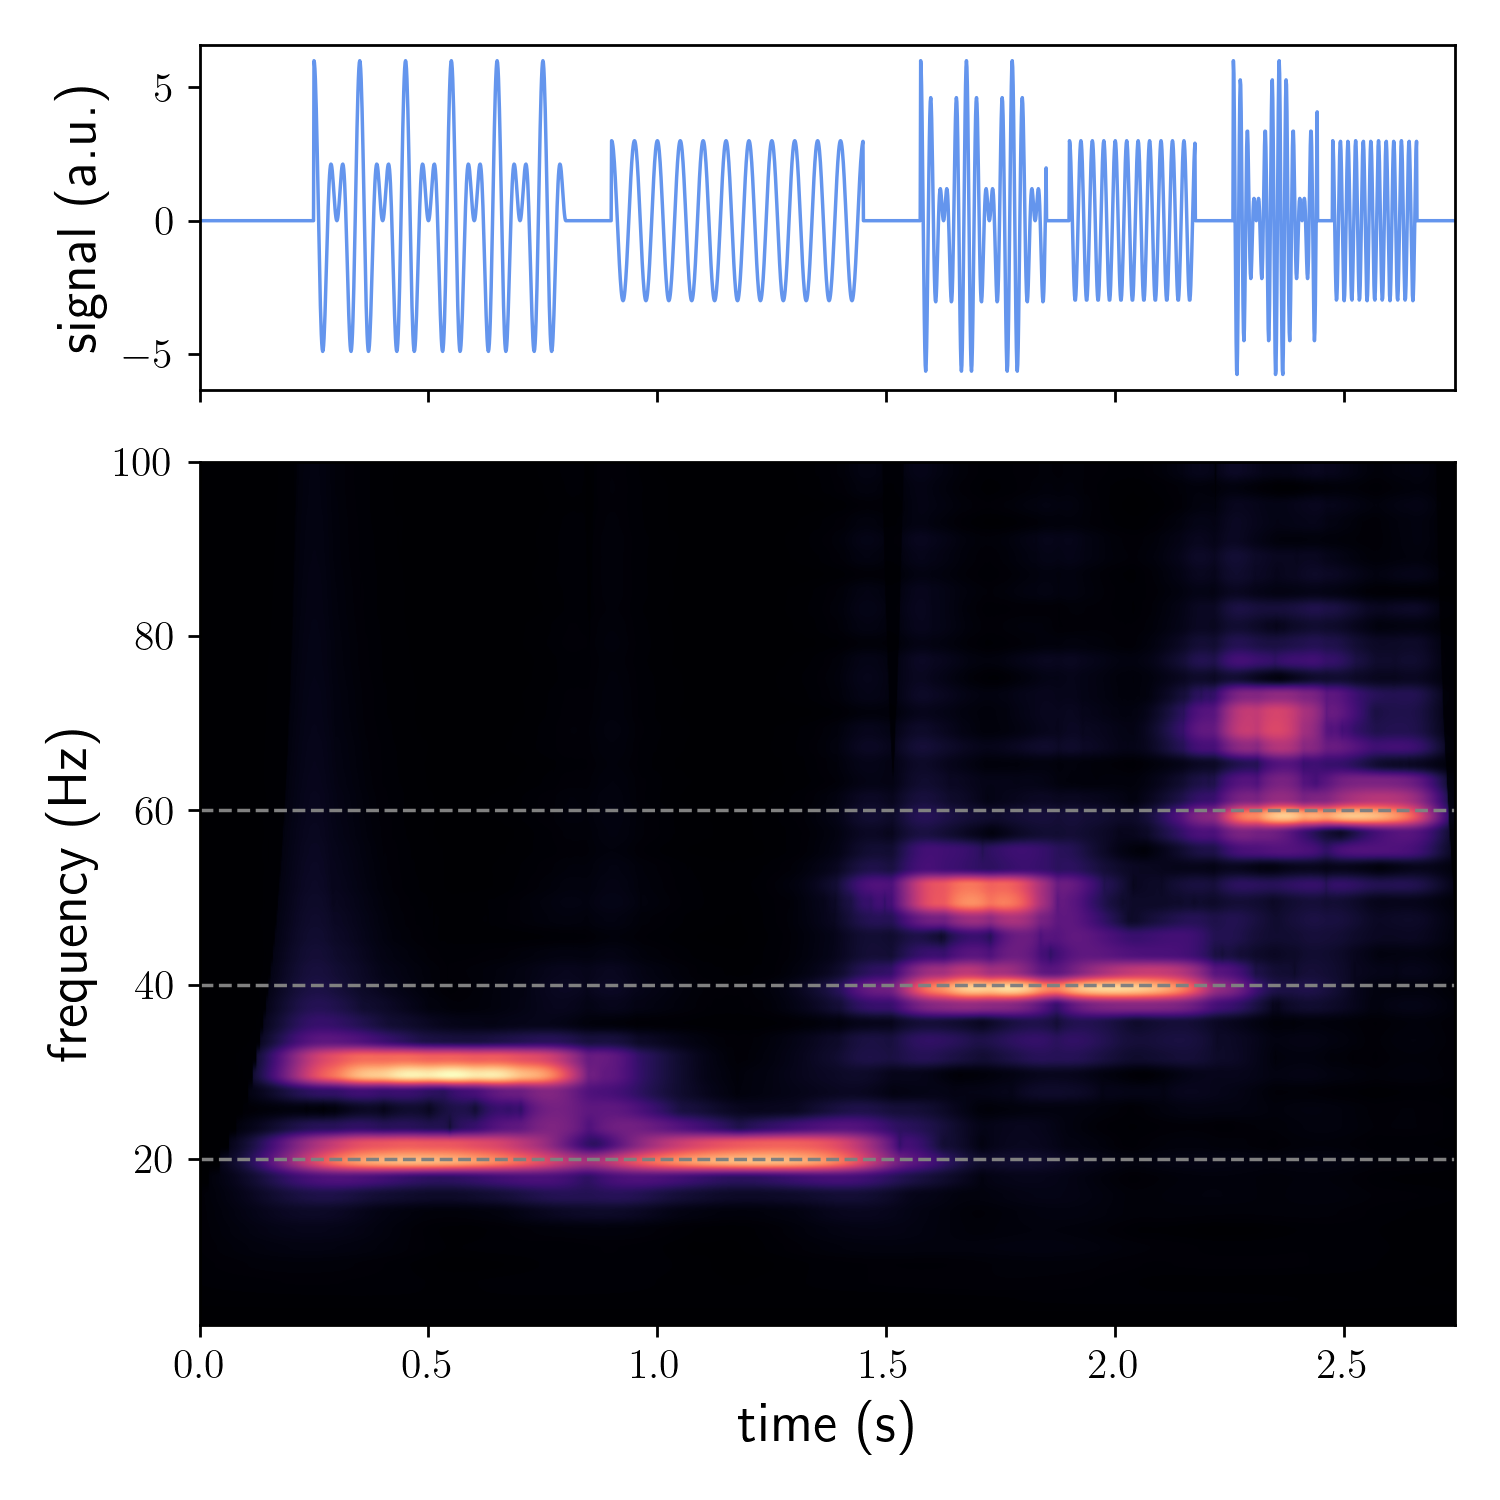
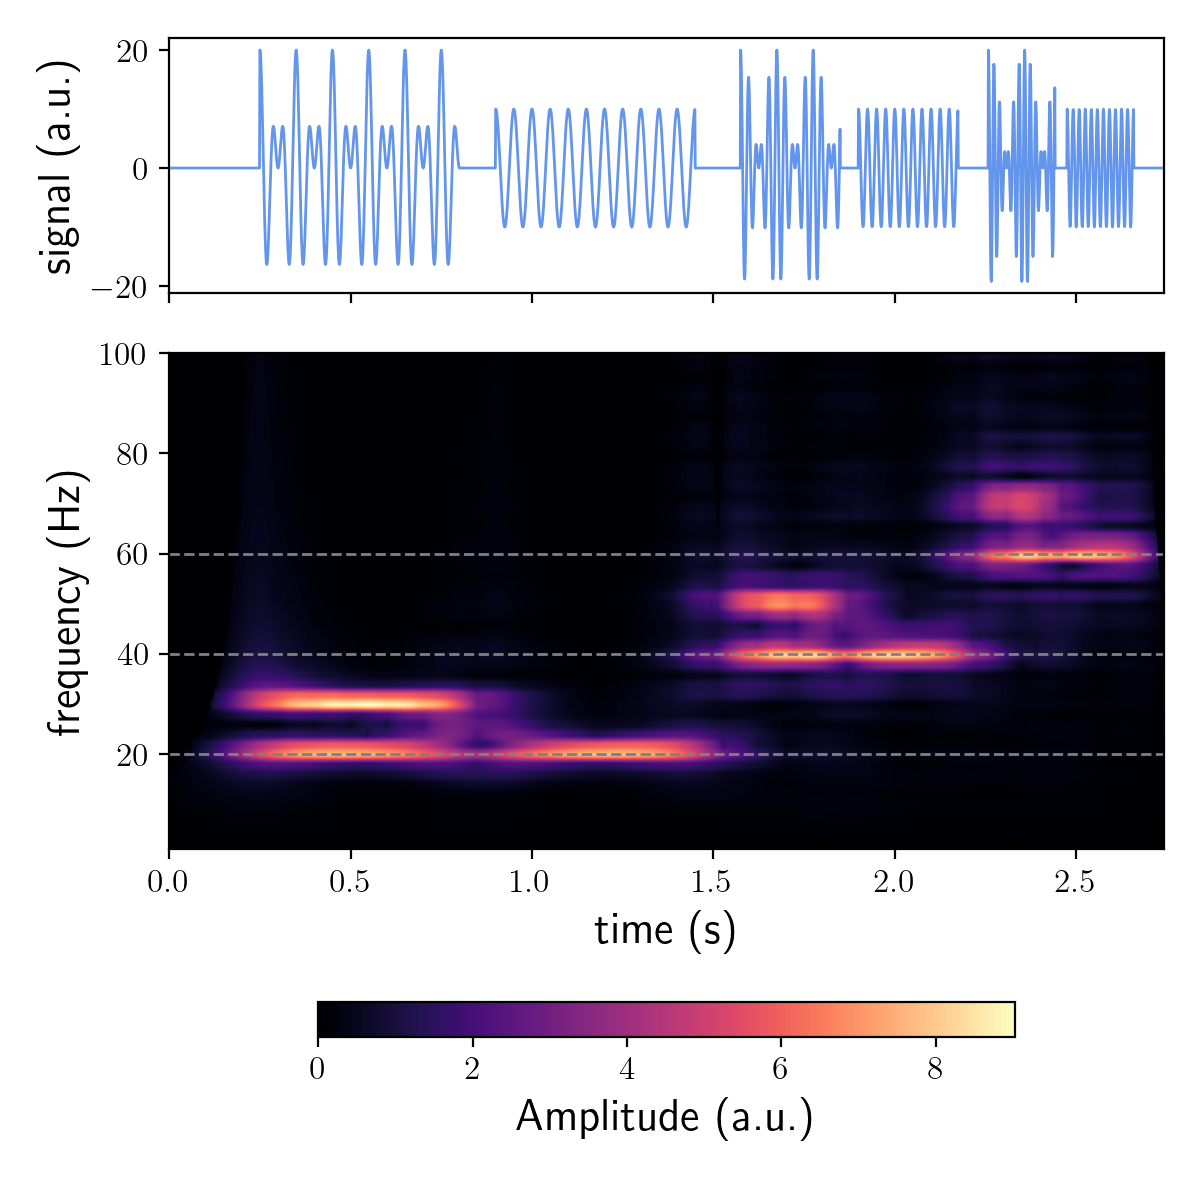
FIX: Geometric mean exponent for order_min !=1
- for the minumum order larger than 1 the geometric mean
exponent was not correct
- now the amplitude spectrogram faithfully recovers
the harmonic signal amplitudes for arbitrary orders

Changes to be committed:
	modified:   superlet.py
	modified:   synthetic_example.png

diff --git a/python/superlet.py b/python/superlet.py
@@ -103,16 +103,17 @@ def multiplicativeSLT(data_arr, samplerate, scales, order_max, order_min=1, c_1=
     # create the complete multiplicative set spanning
     # order_min - order_max
     cycles = c_1 * np.arange(order_min, order_max + 1)
+    order_num = order_max + 1 - order_min # number of different orders
     SL = [MorletSL(c) for c in cycles]
 
     # lowest order
     gmean_spec = cwtSL(data_arr, SL[0], scales, dt)
-    gmean_spec = np.power(gmean_spec, 1 / order_max)
+    gmean_spec = np.power(gmean_spec, 1 / order_num)
 
     for wavelet in SL[1:]:
 
         spec = cwtSL(data_arr, wavelet, scales, dt)
-        gmean_spec *= np.power(spec, 1 / order_max)
+        gmean_spec *= np.power(spec, 1 / order_num)
 
     return gmean_spec
 
@@ -142,7 +143,7 @@ def FASLT(data_arr, samplerate, scales, order_max, order_min=1, c_1=3):
 
     # every scale needs a different exponent
     # for the geometric mean
-    exponents = 1 / orders
+    exponents = 1 / (orders - order_min + 1)
 
     # which frequencies/scales use the same integer orders SL
     order_jumps = np.where(np.diff(orders_int))[0]
@@ -384,8 +385,8 @@ if __name__ == "__main__":
     import matplotlib.pyplot as ppl
 
     fs = 1000  # sampling frequency
-    signal = 3 * gen_superlet_testdata(fs=fs, eps=0)  # 20Hz, 40Hz and 60Hz
-
+    A = 10 # amplitude
+    signal = A * gen_superlet_testdata(fs=fs, eps=0)  # 20Hz, 40Hz and 60Hz
     
     # frequencies of interest in Hz
     foi = np.linspace(1, 100, 50)
@@ -402,18 +403,21 @@ if __name__ == "__main__":
     )
 
     # amplitude scalogram
-    ampls = np.sqrt(np.abs(spec**2))
+    ampls = np.abs(spec)
 
     fig, (ax1, ax2) = ppl.subplots(2, 1,
                                    sharex=True,
-                                   gridspec_kw={"height_ratios": [1, 2.5]},
+                                   gridspec_kw={"height_ratios": [1, 3]},
                                    figsize=(6, 6))
 
     ax1.plot(np.arange(signal.size) / fs, signal, c='cornflowerblue')
     ax1.set_ylabel('signal (a.u.)')
     
     extent = [0, len(signal) / fs, foi[0], foi[-1]]
-    ax2.imshow(ampls, cmap="magma", aspect="auto", extent=extent, origin='lower')
+    im = ax2.imshow(ampls, cmap="magma", aspect="auto", extent=extent, origin='lower')
+    
+    ppl.colorbar(im,ax = ax2, orientation='horizontal',
+                 shrink=0.7, pad=0.2, label='amplitude (a.u.)')
     
     ax2.plot([0, len(signal) / fs], [20, 20], "--", c='0.5')
     ax2.plot([0, len(signal) / fs], [40, 40], "--", c='0.5')
